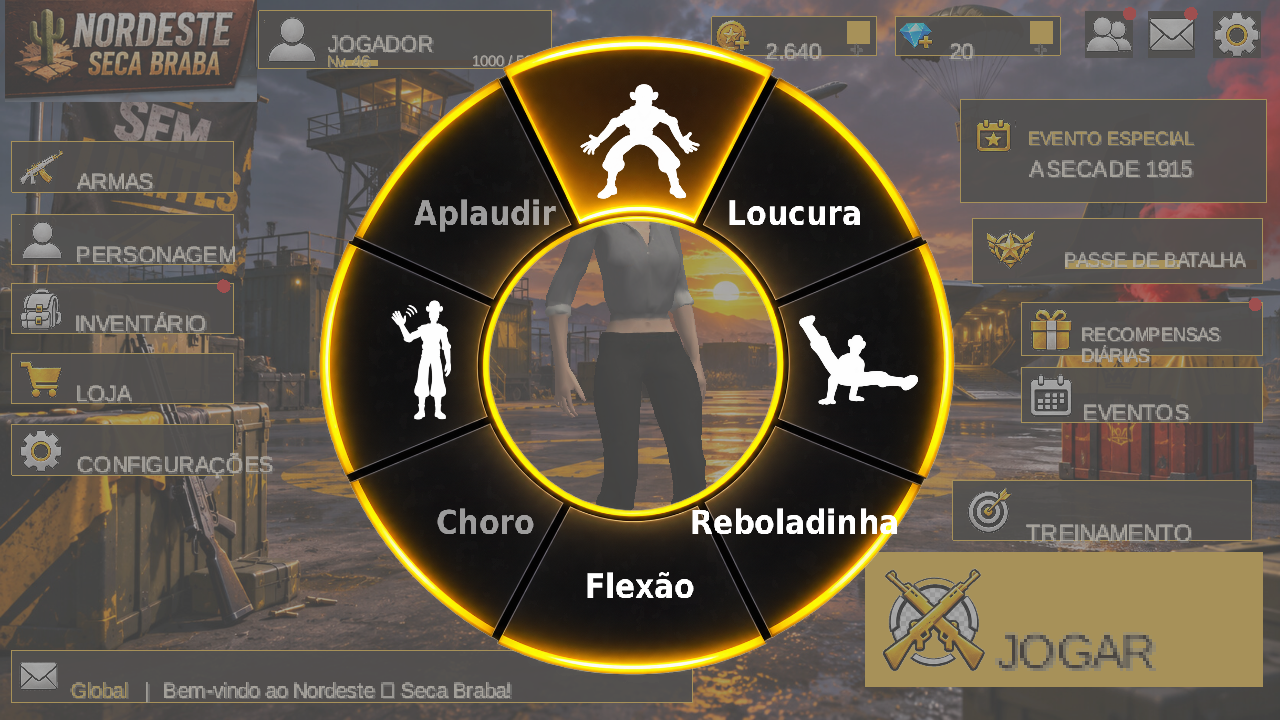
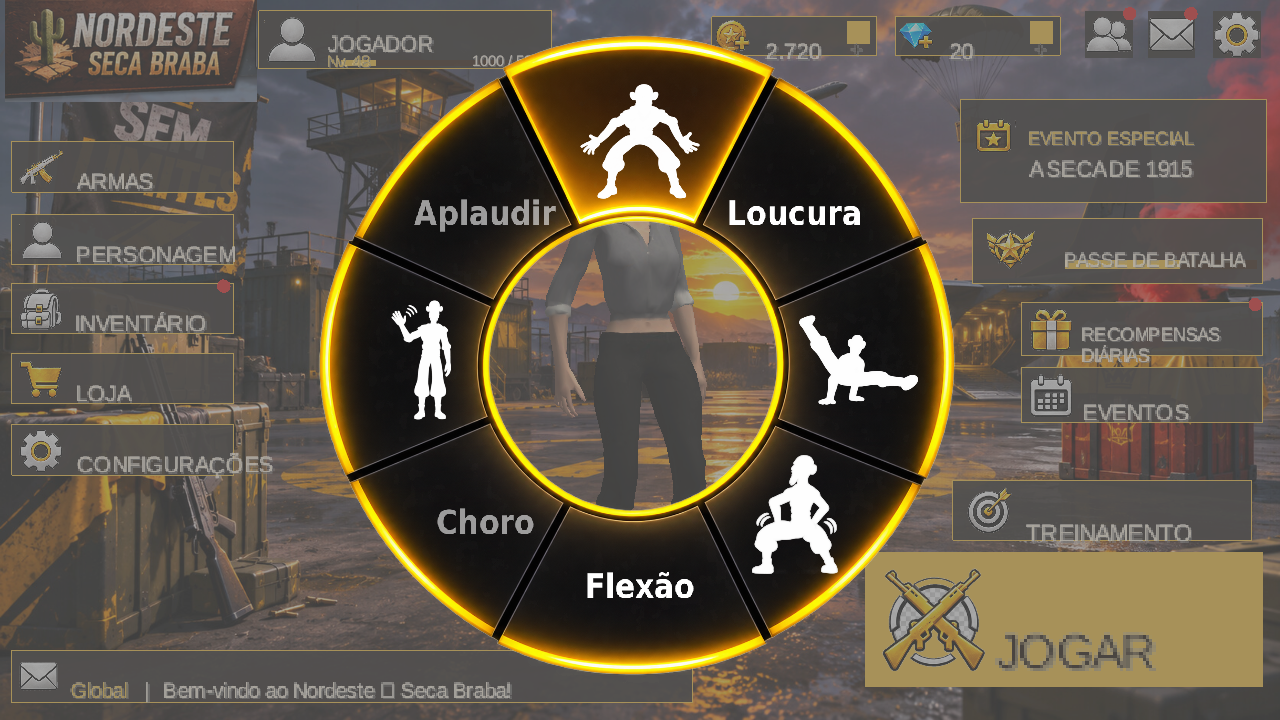
feat: ícone do Reboladinha no espaço Desafio (sem nome)
Claude-Session: https://claude.ai/code/session_01G6YX8QZKfWyBwnCcsHxJSH

Changed region(s): [[0.5312, 0.6417, 0.7188, 0.7944], [0.5938, 0.0611, 0.625, 0.0917]]

diff --git a/jogo-3d-libgdx/core/src/main/java/com/exemplo/jogo3d/Emotes.java b/jogo-3d-libgdx/core/src/main/java/com/exemplo/jogo3d/Emotes.java
@@ -18,8 +18,8 @@ final class Emotes {
      * Ícone de cada espaço (silhueta branca, em hud2/lobby) ou null. Espaço com ícone não mostra nome.
      * Espaço sem ícone mostra o rótulo: o nome do arquivo do emote, ou o nome da referência se ainda não há arquivo.
      */
-    static final String[] ICONES = {"emote_danca", null, "emote_vitoria", null, null, null, "emote_saudacao", null};
-    static final String[] ROTULOS = {null, "Loucura", null, "Reboladinha", "Flexão", "Choro", null, "Aplaudir"};
+    static final String[] ICONES = {"emote_danca", null, "emote_vitoria", "emote_desafio", null, null, "emote_saudacao", null};
+    static final String[] ROTULOS = {null, "Loucura", null, null, "Flexão", "Choro", null, "Aplaudir"};
 
     /**
      * Clipe de cada espaço (nome no modelo) ou null = ainda sem arquivo. Associação provisória pelos nomes dos
